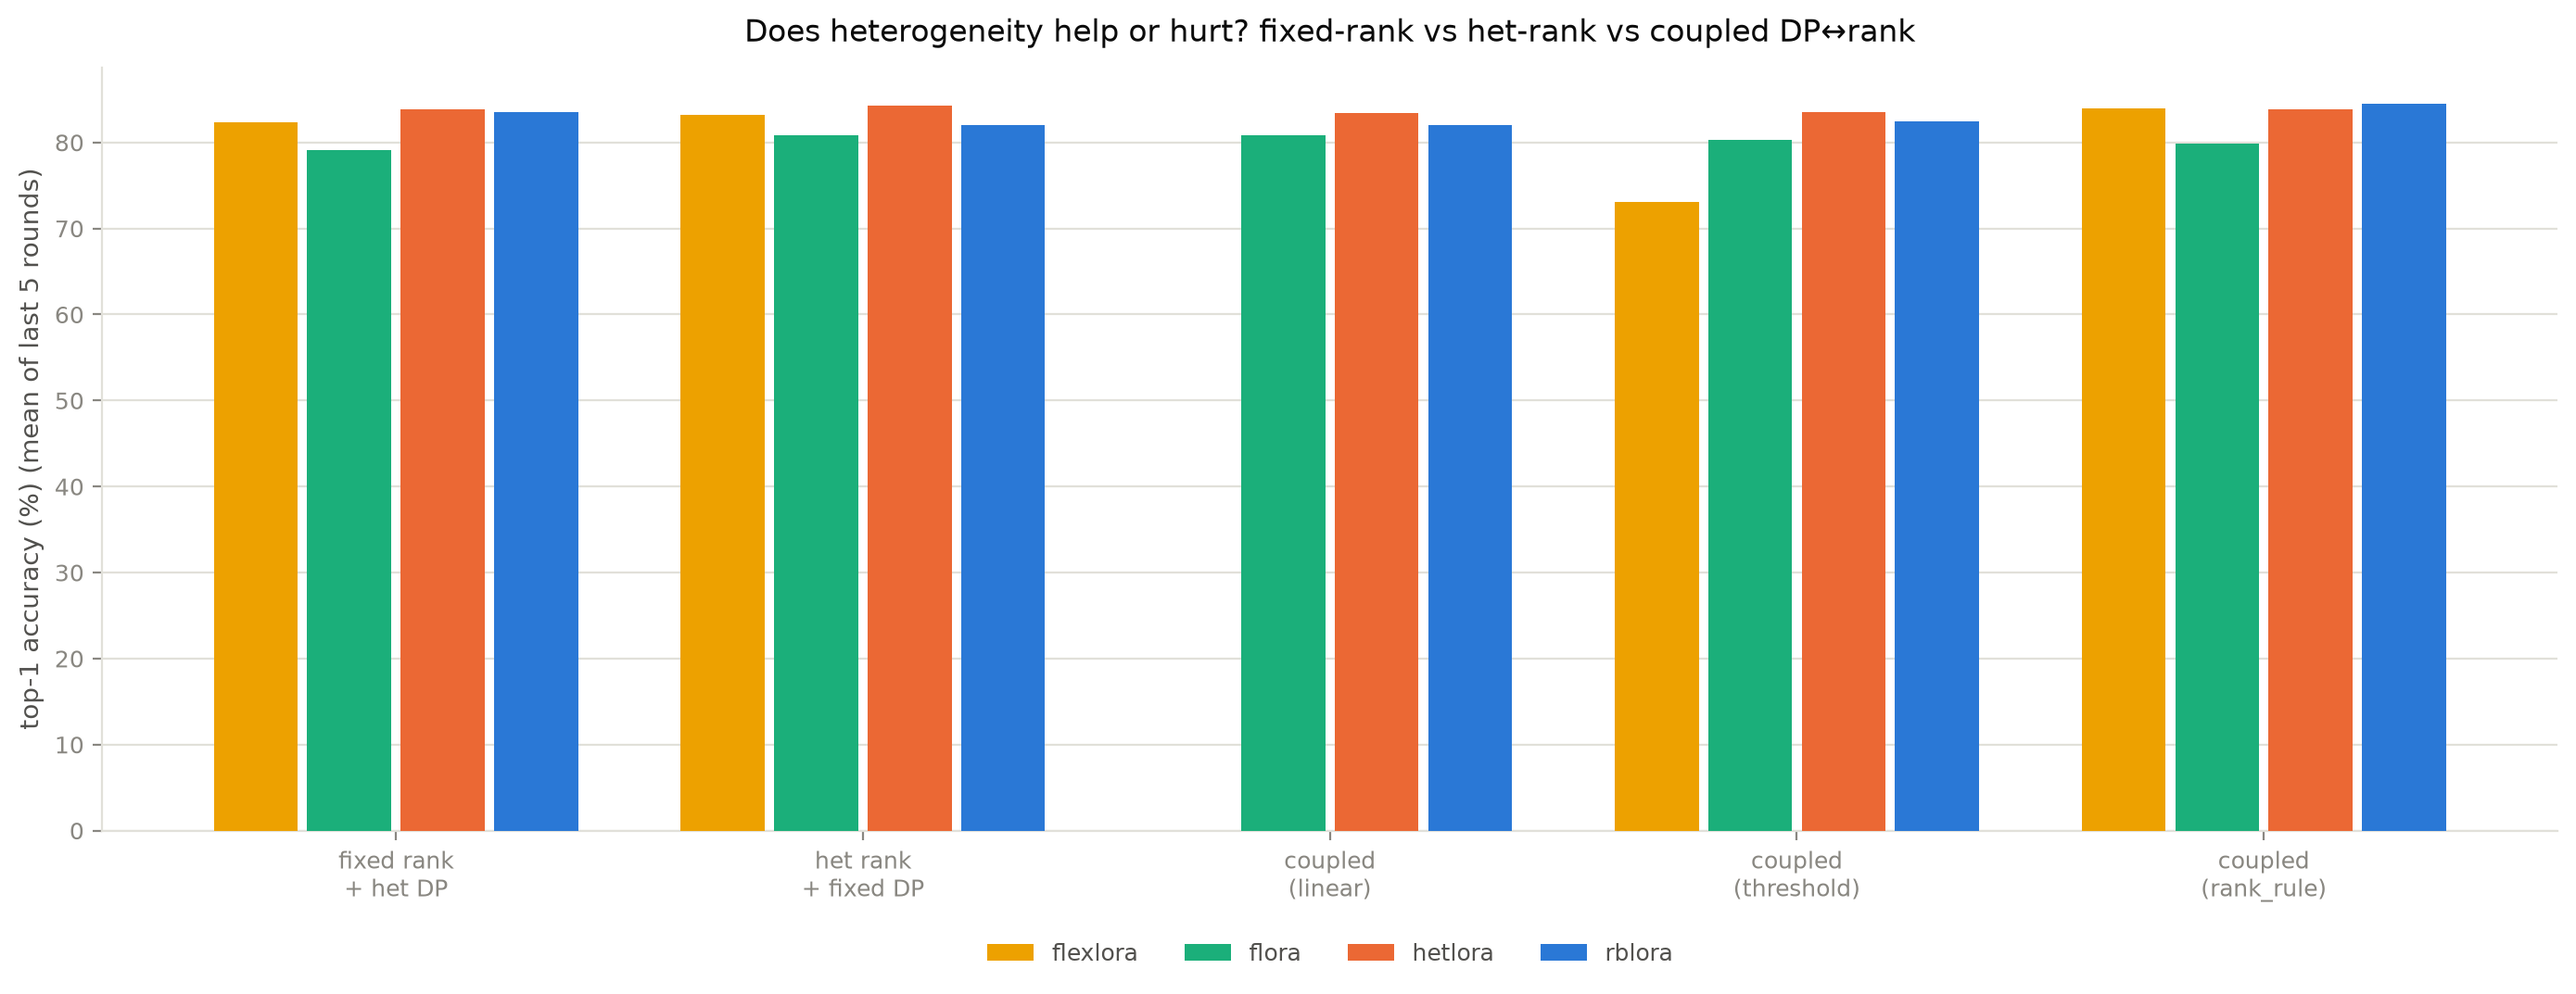
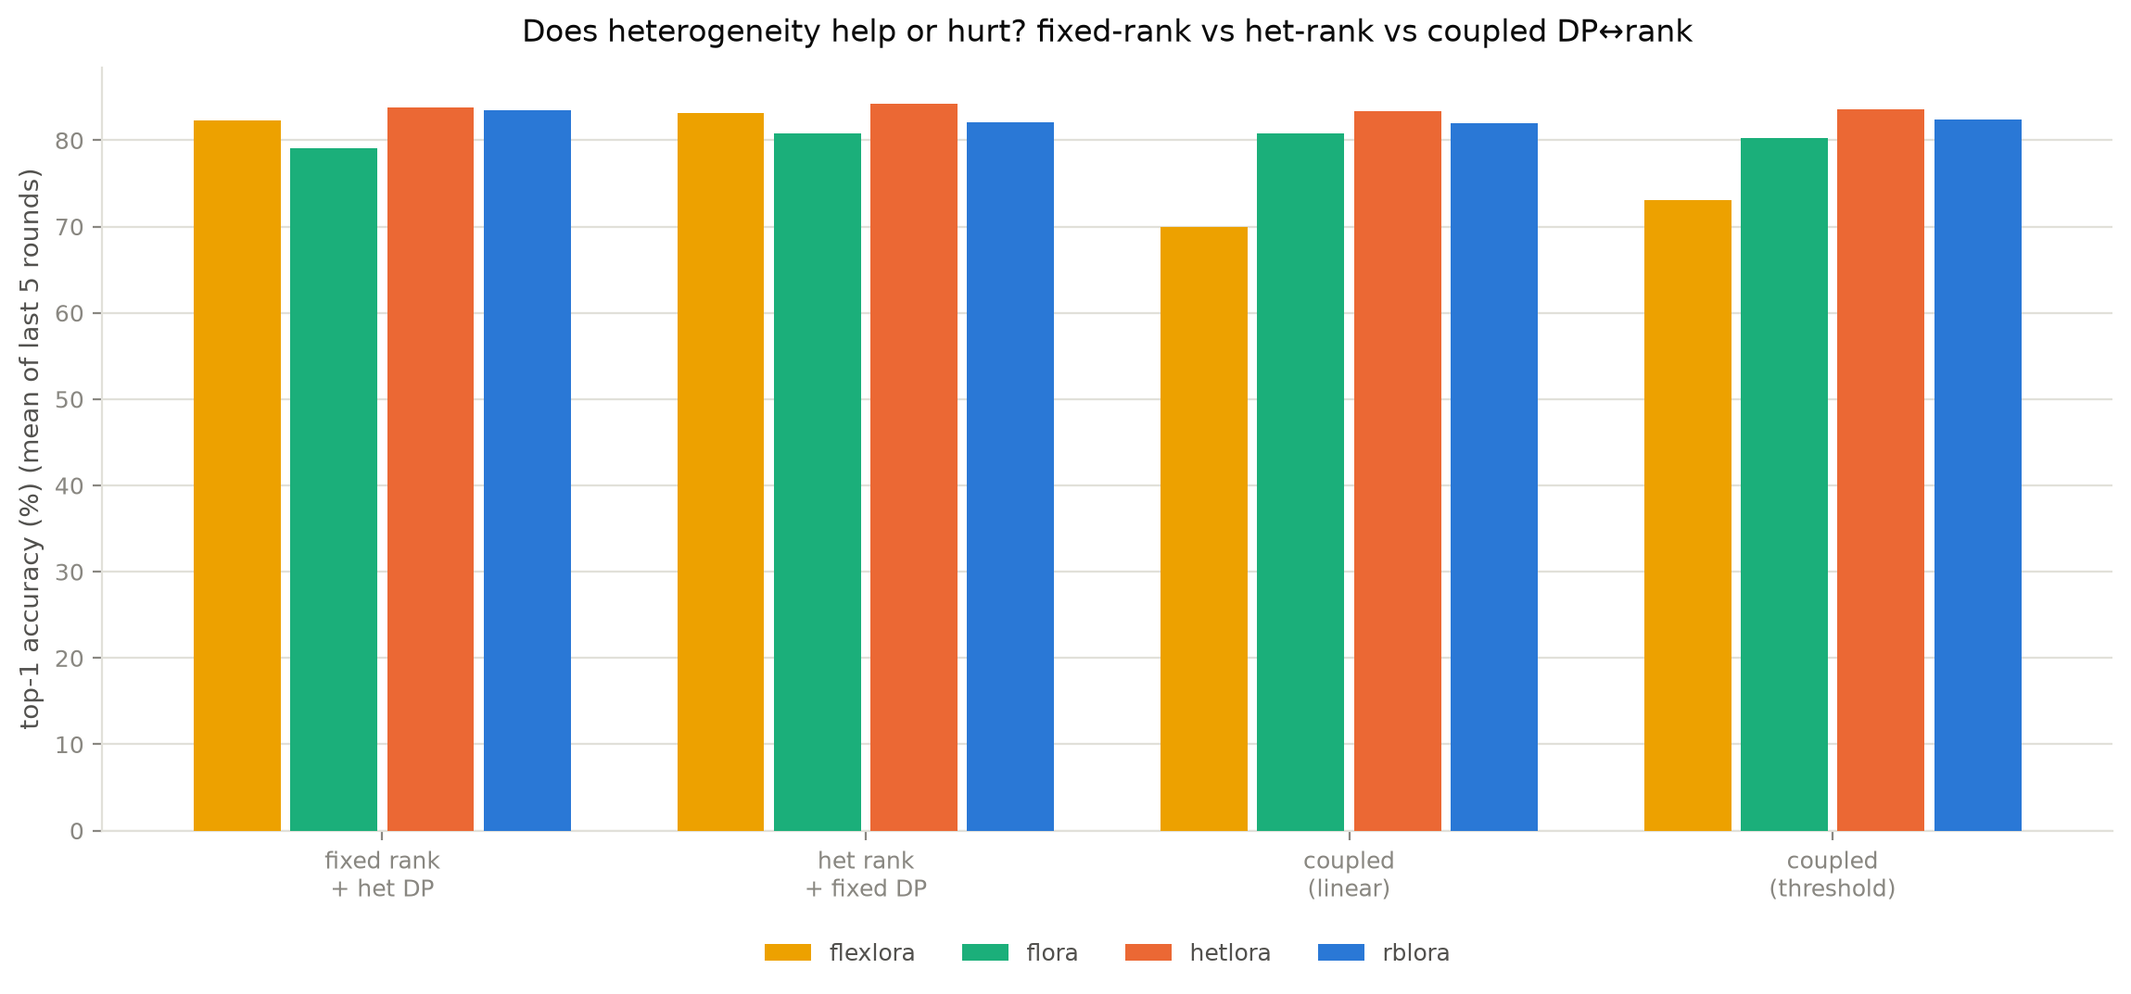
plots

diff --git a/plotting/plot_optimal_rank_curve.py b/plotting/plot_optimal_rank_curve.py
@@ -1,0 +1,132 @@
+#!/usr/bin/env python
+"""
+plot_optimal_rank_curve.py -- accuracy vs rank, one line per epsilon, built
+directly from measured results/sweep/dp_rank_grid/eps<e>_rank<r>/ cells
+(num_clients=4, the domain the coupling sweep actually runs in).
+
+This replaces the rank_rule model's fitted curve with the real thing: no
+regression, no extrapolation, just what was actually measured. Point markers
+are per-method values; the line/shaded band is the mean +/- std across
+methods at that (eps, rank) cell. Only cells that have actually landed are
+plotted -- safe to rerun as more of the grid completes.
+
+Usage:
+    python plotting/plot_optimal_rank_curve.py
+"""
+from __future__ import annotations
+
+import argparse
+import json
+from collections import defaultdict
+from pathlib import Path
+
+import matplotlib
+import numpy as np
+
+matplotlib.use("Agg")
+import matplotlib.pyplot as plt
+
+OUTPUT_PATH = Path("figures/sweep/optimal_rank_curve.png")
+
+INK = "#0b0b0b"
+SECONDARY_INK = "#52514e"
+MUTED = "#898781"
+GRID = "#e1e0d9"
+EPS_COLORS = {0.5: "#2a78d6", 1.0: "#8a5fd1", 3.0: "#eb6834", 8.0: "#1baf7a"}
+METHOD_MARKERS = {"rblora": "o", "hetlora": "s", "flora": "^", "flexlora": "D"}
+
+
+def _final_accuracy(result: dict, tail: int) -> float:
+    history = result["history"]
+    window = history[-tail:] if len(history) >= tail else history
+    return sum(entry["top1_acc"] for entry in window) / len(window)
+
+
+def load_cells(results_dir: Path, tail: int) -> dict[tuple[float, int], dict[str, float]]:
+    cells: dict[tuple[float, int], dict[str, float]] = defaultdict(dict)
+    for cell_dir in sorted(results_dir.glob("eps*_rank*")):
+        eps_str, rank_str = cell_dir.name.split("_")
+        eps = float(eps_str.replace("eps", ""))
+        rank = int(rank_str.replace("rank", ""))
+        for path in sorted(cell_dir.glob("*.json")):
+            result = json.loads(path.read_text(encoding="utf-8"))
+            method = result["config"]["method"]
+            if not result["history"]:
+                continue
+            cells[(eps, rank)][method] = _final_accuracy(result, tail)
+    return cells
+
+
+def main() -> None:
+    parser = argparse.ArgumentParser(description=__doc__, formatter_class=argparse.RawDescriptionHelpFormatter)
+    parser.add_argument("--tail", type=int, default=5)
+    parser.add_argument("--results-dir", default="results/sweep/dp_rank_grid")
+    parser.add_argument("--output", default=str(OUTPUT_PATH))
+    args = parser.parse_args()
+
+    cells = load_cells(Path(args.results_dir), args.tail)
+    if not cells:
+        raise SystemExit(f"no cells found under {args.results_dir}")
+
+    by_eps: dict[float, dict[int, dict[str, float]]] = defaultdict(dict)
+    for (eps, rank), methods in cells.items():
+        by_eps[eps][rank] = methods
+
+    all_ranks = sorted({rank for methods_by_rank in by_eps.values() for rank in methods_by_rank})
+
+    fig, ax = plt.subplots(figsize=(8, 5.5))
+
+    for eps in sorted(by_eps):
+        ranks = sorted(by_eps[eps])
+        means = np.array([np.mean(list(by_eps[eps][r].values())) for r in ranks])
+        stds = np.array([np.std(list(by_eps[eps][r].values())) for r in ranks])
+        color = EPS_COLORS.get(eps, MUTED)
+        n_methods_label = "/".join(str(len(by_eps[eps][r])) for r in ranks)
+        label = f"eps={eps:g}  (n methods per point: {n_methods_label})"
+
+        if len(ranks) >= 2:
+            ax.plot(ranks, means, linewidth=2, color=color, solid_capstyle="round", zorder=3, label=label)
+            ax.fill_between(ranks, means - stds, means + stds, alpha=0.15, color=color, zorder=1)
+        else:
+            ax.scatter(ranks, means, s=10, color=color, zorder=3, label=label + "  [single point -- no line]")
+
+        for r in ranks:
+            for method, acc in by_eps[eps][r].items():
+                ax.scatter([r], [acc], marker=METHOD_MARKERS.get(method, "x"), s=35,
+                           facecolors="none", edgecolors=color, linewidths=1.2, zorder=4)
+
+    method_legend = [plt.Line2D([0], [0], marker=m, color=MUTED, linestyle="", markerfacecolor="none",
+                                 markeredgecolor=MUTED, label=name)
+                      for name, m in METHOD_MARKERS.items()]
+
+    ax.set_xscale("log", base=2)
+    ax.set_xticks(all_ranks)
+    ax.set_xticklabels([str(r) for r in all_ranks])
+    ax.set_xlabel("LoRA rank", fontsize=10, color=SECONDARY_INK)
+    ax.set_ylabel(f"top-1 accuracy (%), mean of last {args.tail} rounds", fontsize=10, color=SECONDARY_INK)
+    ax.set_title("Measured accuracy vs rank across DP budgets (num_clients=4, real data -- no model)",
+                 fontsize=12, color=INK, pad=10)
+    ax.grid(True, color=GRID, linewidth=0.8)
+    ax.set_axisbelow(True)
+    for spine in ("top", "right"):
+        ax.spines[spine].set_visible(False)
+    for spine in ("left", "bottom"):
+        ax.spines[spine].set_color(GRID)
+    ax.tick_params(colors=MUTED, labelsize=9)
+
+    eps_legend = ax.legend(frameon=False, labelcolor=SECONDARY_INK, fontsize=8.5, loc="lower right")
+    ax.add_artist(eps_legend)
+    ax.legend(handles=method_legend, frameon=False, labelcolor=SECONDARY_INK, fontsize=8,
+              loc="upper left", title="markers = per-method points", title_fontsize=8)
+
+    fig.tight_layout()
+    output_path = Path(args.output)
+    output_path.parent.mkdir(parents=True, exist_ok=True)
+    fig.savefig(output_path, dpi=200, bbox_inches="tight")
+    plt.close(fig)
+    print(f"wrote {output_path}")
+    print(f"cells plotted: {sorted(cells.keys())}")
+
+
+if __name__ == "__main__":
+    main()

diff --git a/plotting/plot_rank_rule_fit_quality.py b/plotting/plot_rank_rule_fit_quality.py
@@ -1,0 +1,123 @@
+#!/usr/bin/env python
+"""
+plot_rank_rule_fit_quality.py -- why rank_rule's model can't be salvaged by
+refitting: a per-method parity plot (predicted vs measured accuracy) using
+the SAME model form (accuracy = acc_nodp[rank] - kappa*rank*sigma^2), fit
+separately per method on num_clients=4 data instead of pooled.
+
+Points on the diagonal = the model's (rank, sigma)-only form explains that
+method's accuracy well. Points scattered off the diagonal = it doesn't --
+because that method's accuracy also depends on something the model was never
+given, like aggregation error under rank heterogeneity (rblora/hetlora) or an
+outright divergence cliff at low rank + high noise (flexlora). flora is the
+one method whose real aggregation is exactly invariant to rank spread, so
+it's the one case where (rank, sigma) really is the whole story.
+
+Usage:
+    python plotting/plot_rank_rule_fit_quality.py
+"""
+from __future__ import annotations
+
+import argparse
+import sys
+from pathlib import Path
+
+sys.path.insert(0, str(Path(__file__).resolve().parent.parent))
+
+import matplotlib
+import numpy as np
+
+matplotlib.use("Agg")
+import matplotlib.pyplot as plt
+
+from federated_lora.config import Config
+from federated_lora.rank_rule import shard_size
+from rankrule.fit_rank_rule import load_nc4_points
+
+OUTPUT_PATH = Path("figures/sweep/rank_rule_fit_quality.png")
+
+INK = "#0b0b0b"
+SECONDARY_INK = "#52514e"
+MUTED = "#898781"
+GRID = "#e1e0d9"
+METHOD_COLORS = {
+    "rblora": "#2a78d6",
+    "hetlora": "#eb6834",
+    "flora": "#1baf7a",
+    "flexlora": "#eda100",
+}
+METHODS = ["rblora", "hetlora", "flora", "flexlora"]
+
+
+def fit_per_method(points: list[tuple[int, float, float]]):
+    """Same lstsq fit as rankrule/fit_rank_rule.py's pooled fit, applied to one method's points."""
+    ranks = sorted({rank for rank, _sigma, _acc in points})
+    if len(points) < len(ranks) + 1:
+        return None
+
+    X = np.zeros((len(points), len(ranks) + 1))
+    y = np.zeros(len(points))
+    for i, (rank, sigma, acc) in enumerate(points):
+        X[i, ranks.index(rank)] = 1.0
+        X[i, -1] = -(rank * sigma ** 2)
+        y[i] = acc
+
+    beta, _residuals, _rank_of_X, _sv = np.linalg.lstsq(X, y, rcond=None)
+    predicted = X @ beta
+    ss_res = float(np.sum((y - predicted) ** 2))
+    ss_tot = float(np.sum((y - y.mean()) ** 2))
+    r_squared = 1 - ss_res / ss_tot if ss_tot > 0 else float("nan")
+    return predicted, y, r_squared
+
+
+def main() -> None:
+    parser = argparse.ArgumentParser(description=__doc__, formatter_class=argparse.RawDescriptionHelpFormatter)
+    parser.add_argument("--tail", type=int, default=5)
+    parser.add_argument("--results-dir", default="results/sweep")
+    parser.add_argument("--output", default=str(OUTPUT_PATH))
+    args = parser.parse_args()
+
+    results_dir = Path(args.results_dir)
+    config = Config(task="cifar100", method="rblora", num_clients=4)
+    size = shard_size(config)
+
+    fig, ax = plt.subplots(figsize=(6.5, 6.5))
+    ax.plot([0, 1], [0, 1], color=MUTED, linewidth=1, linestyle="--", zorder=1, label="perfect fit")
+
+    for method in METHODS:
+        points = load_nc4_points(results_dir, [method], args.tail, config, size)
+        fit = fit_per_method(points)
+        if fit is None:
+            print(f"skipping {method}: not enough points yet")
+            continue
+        predicted, measured, r2 = fit
+        color = METHOD_COLORS[method]
+        ax.scatter(predicted, measured, s=70, color=color, edgecolors=INK, linewidths=0.6,
+                   zorder=3, label=f"{method}  (R²={r2:.2f}, n={len(points)})")
+
+    ax.set_xlim(0, 1.0)
+    ax.set_ylim(0, 1.0)
+    ax.set_xlabel("model-predicted accuracy", fontsize=10, color=SECONDARY_INK)
+    ax.set_ylabel("measured accuracy", fontsize=10, color=SECONDARY_INK)
+    ax.set_title("Why rank_rule can't be refit: per-method fit quality\n(num_clients=4, same model form fit separately per method)",
+                 fontsize=12, color=INK, pad=10)
+    ax.set_aspect("equal")
+    ax.grid(True, color=GRID, linewidth=0.8)
+    ax.set_axisbelow(True)
+    for spine in ("top", "right"):
+        ax.spines[spine].set_visible(False)
+    for spine in ("left", "bottom"):
+        ax.spines[spine].set_color(GRID)
+    ax.tick_params(colors=MUTED, labelsize=9)
+    ax.legend(frameon=False, labelcolor=SECONDARY_INK, fontsize=9, loc="upper left")
+
+    fig.tight_layout()
+    output_path = Path(args.output)
+    output_path.parent.mkdir(parents=True, exist_ok=True)
+    fig.savefig(output_path, dpi=200, bbox_inches="tight")
+    plt.close(fig)
+    print(f"wrote {output_path}")
+
+
+if __name__ == "__main__":
+    main()

diff --git a/plotting/plot_coupling_strategies.py b/plotting/plot_coupling_strategies.py
@@ -12,9 +12,7 @@ import numpy as np
 matplotlib.use("Agg")
 import matplotlib.pyplot as plt
 
-from federated_lora.config import Config
-from federated_lora.coupling import linear_coupling, rank_rule_coupling, threshold_coupling
-from federated_lora.rank_rule import shard_size
+from federated_lora.coupling import linear_coupling, threshold_coupling
 
 OUTPUT_PATH = Path("figures/sweep/coupling_strategies.png")
 
@@ -24,7 +22,6 @@ MUTED = "#898781"
 GRID = "#e1e0d9"
 LINEAR_COLOR = "#2a78d6"
 THRESHOLD_COLOR = "#eb6834"
-RANK_RULE_COLOR = "#1baf7a"
 
 
 def main() -> None:
@@ -36,41 +33,22 @@ def main() -> None:
     args = parser.parse_args()
 
     candidate_ranks = tuple(args.candidate_ranks)
-    # rank_rule_coupling calls Opacus's PRV accountant search per point, and
-    # each call is genuinely slow (multiple seconds) at global_rounds=100 x
-    # local_steps=20=2000 steps -- keep this grid small. 18 is still plenty
-    # for a clean-looking step function on a log x-axis.
-    eps_grid = np.geomspace(args.eps_min, args.eps_max, 18)
-
-    # rank_rule_coupling needs a Config to compute sigma(eps) -- num_clients=20
-    # deliberately, since that's the domain rank_rule.py is actually calibrated
-    # on right now (see the num_clients=4 vs 20 mismatch discussion). This plot
-    # is explanatory, not the empirical item-9 comparison, so it shows the
-    # strategy operating inside its valid calibration domain rather than the
-    # out-of-domain num_clients=4 extrapolation (which currently just picks
-    # rank 16 everywhere and wouldn't illustrate anything).
-    rr_config = Config(task='cifar100', method='rblora', num_clients=20)
-    rr_size = shard_size(rr_config)
+    eps_grid = np.geomspace(args.eps_min, args.eps_max, 400)
 
     linear_ranks = np.array([linear_coupling(float(e), candidate_ranks) for e in eps_grid])
     threshold_ranks = np.array([threshold_coupling(float(e), candidate_ranks) for e in eps_grid])
-    rank_rule_ranks = np.array([
-        rank_rule_coupling(float(e), candidate_ranks, config=rr_config, size=rr_size) for e in eps_grid
-    ])
-    disagree = (linear_ranks != threshold_ranks) | (linear_ranks != rank_rule_ranks)
+    disagree = linear_ranks != threshold_ranks
 
     fig, ax = plt.subplots(figsize=(9.5, 5.5))
 
     ax.step(eps_grid, linear_ranks, where="post", linewidth=2, color=LINEAR_COLOR, label="linear_coupling")
     ax.step(eps_grid, threshold_ranks, where="post", linewidth=2, color=THRESHOLD_COLOR,
             linestyle="--", label="threshold_coupling")
-    ax.step(eps_grid, rank_rule_ranks, where="post", linewidth=2, color=RANK_RULE_COLOR,
-            linestyle=":", label="rank_rule_coupling (num_clients=20 calibration)")
 
     if disagree.any():
         ax.fill_between(eps_grid, min(candidate_ranks), max(candidate_ranks),
                          where=disagree, color=MUTED, alpha=0.12, step="post",
-                         label="any strategy disagrees")
+                         label="strategies disagree")
 
     ax.set_xscale("log")
     ax.set_yscale("log", base=2)
@@ -78,7 +56,7 @@ def main() -> None:
     ax.set_yticklabels([str(r) for r in candidate_ranks])
     ax.set_xlabel("client epsilon", fontsize=10, color=SECONDARY_INK)
     ax.set_ylabel("assigned LoRA rank", fontsize=10, color=SECONDARY_INK)
-    ax.set_title("rank<->DP coupling strategies: linear vs threshold vs rank_rule", fontsize=12, color=INK, pad=10)
+    ax.set_title("rank<->DP coupling strategies: linear vs threshold", fontsize=12, color=INK, pad=10)
     ax.grid(True, which="both", color=GRID, linewidth=0.8)
     ax.set_axisbelow(True)
     ax.legend(frameon=False, labelcolor=SECONDARY_INK, fontsize=8.5, loc="upper left")
@@ -96,7 +74,7 @@ def main() -> None:
     plt.close(fig)
 
     disagreement_frac = disagree.mean()
-    print(f"any-strategy disagreement across eps in [{args.eps_min}, {args.eps_max}]: {disagreement_frac:.1%} of sampled points")
+    print(f"disagreement across eps in [{args.eps_min}, {args.eps_max}]: {disagreement_frac:.1%} of sampled points")
     print(f"wrote {output_path}")
 
 

diff --git a/plotting/plot_final_ablation.py b/plotting/plot_final_ablation.py
@@ -9,9 +9,15 @@ handled:
                            (rank held fixed across clients, DP epsilon varies)
   - het_rank_fixed_dp   -- results/sweep/dp_spread_grid/gamma0.0_kappa1.0
                            (rank varies across clients, DP epsilon held fixed)
-  - coupling_linear/threshold/rank_rule -- results/sweep/dp_coupling/<fn>
+  - coupling_linear/threshold -- results/sweep/dp_coupling/<fn>
                            (both vary together, rank coupled to each client's
                            epsilon via the named strategy)
+
+rank_rule is deliberately excluded here -- at num_clients=4 its fitted model
+never prefers anything but rank 16 across the tested epsilon range, so its
+"coupling" run is actually a constant-rank baseline, not a real coupling
+strategy. See figures/sweep/optimal_rank_curve.png for the real measured
+accuracy-vs-rank relationship instead.
 
 Answers whether deliberately coupling rank to a client's privacy budget beats
 leaving either axis fixed while the other is heterogeneous.
@@ -50,7 +56,6 @@ SCENARIOS = [
     ("het rank\n+ fixed DP", "results/sweep/dp_spread_grid/gamma0.0_kappa1.0"),
     ("coupled\n(linear)", "results/sweep/dp_coupling/linear"),
     ("coupled\n(threshold)", "results/sweep/dp_coupling/threshold"),
-    ("coupled\n(rank_rule)", "results/sweep/dp_coupling/rank_rule"),
 ]
 
 

diff --git a/plotting/plot_coupling_accuracy.py b/plotting/plot_coupling_accuracy.py
@@ -1,7 +1,15 @@
 #!/usr/bin/env python
 """
 plot_coupling_accuracy.py -- accuracy comparison of the DP<->rank coupling
-strategies (linear vs threshold vs rank_rule).
+strategies (linear vs threshold).
+
+rank_rule is deliberately excluded: at num_clients=4 (the domain this sweep
+actually runs in), the fitted model's noise penalty never gets large enough
+across the tested epsilon range to prefer anything but rank 16, so its
+"coupling" run silently degenerated into a constant-rank baseline rather than
+real per-client coupling -- comparing it here as if it were a third coupling
+strategy is misleading. See figures/sweep/optimal_rank_curve.png for the real
+measured accuracy-vs-rank relationship instead.
 
 Reads results/sweep/dp_coupling/{linear,threshold,rank_rule}/*.json (one file
 per method) and draws one small-multiple subplot per method, each with one
@@ -31,16 +39,14 @@ SECONDARY_INK = "#52514e"
 MUTED = "#898781"
 GRID = "#e1e0d9"
 
-STRATEGIES = ["linear", "threshold", "rank_rule"]
+STRATEGIES = ["linear", "threshold"]
 STRATEGY_COLORS = {
     "linear": "#2a78d6",
     "threshold": "#eb6834",
-    "rank_rule": "#1baf7a",
 }
 STRATEGY_STYLES = {
     "linear": "-",
     "threshold": "--",
-    "rank_rule": ":",
 }
 METRIC_LABELS = {
     "top1_acc": "top-1 accuracy (%)",
